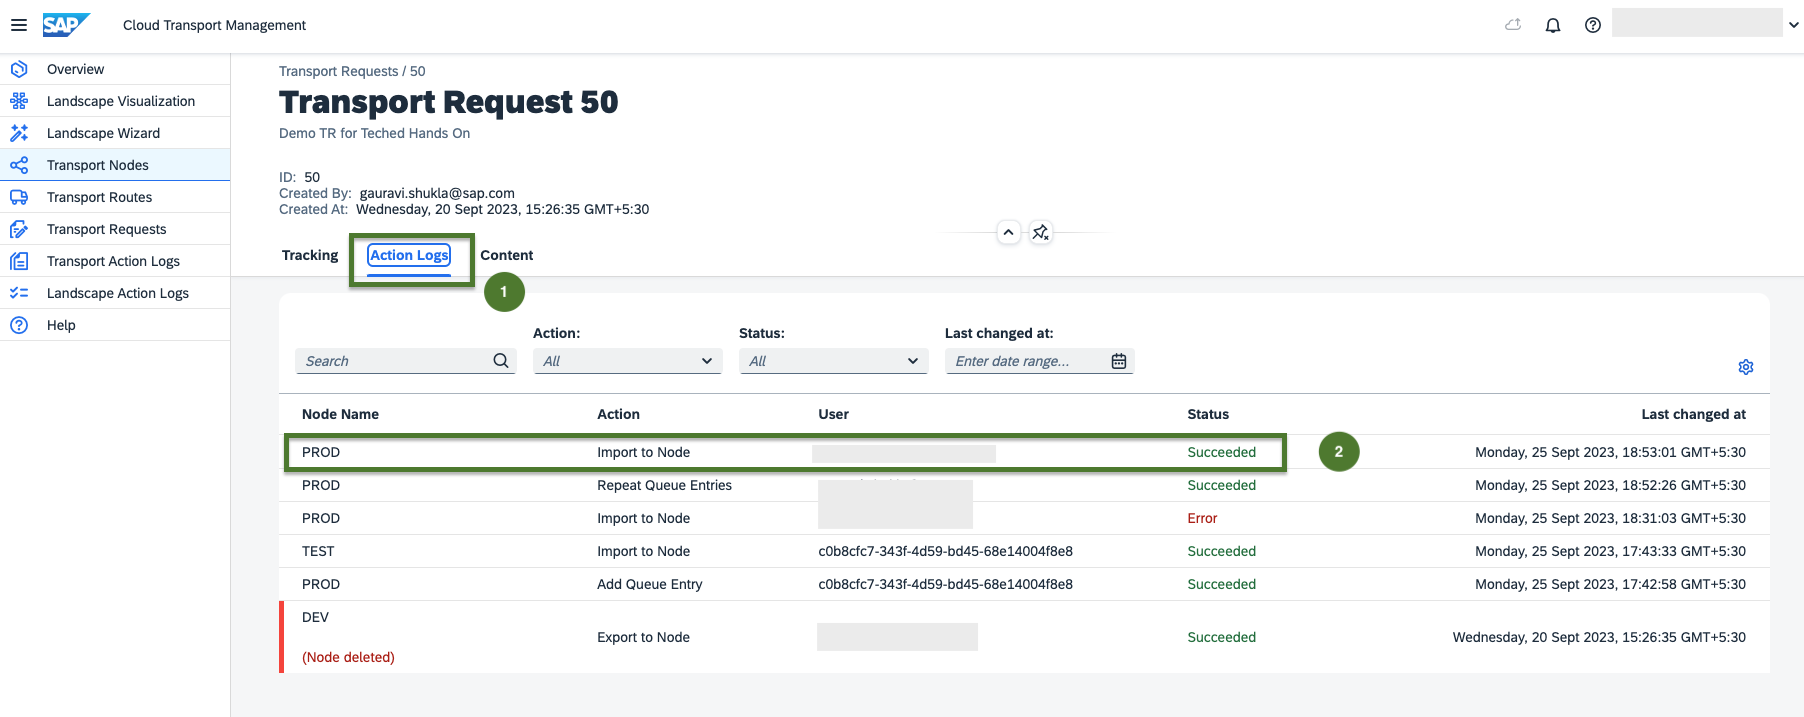
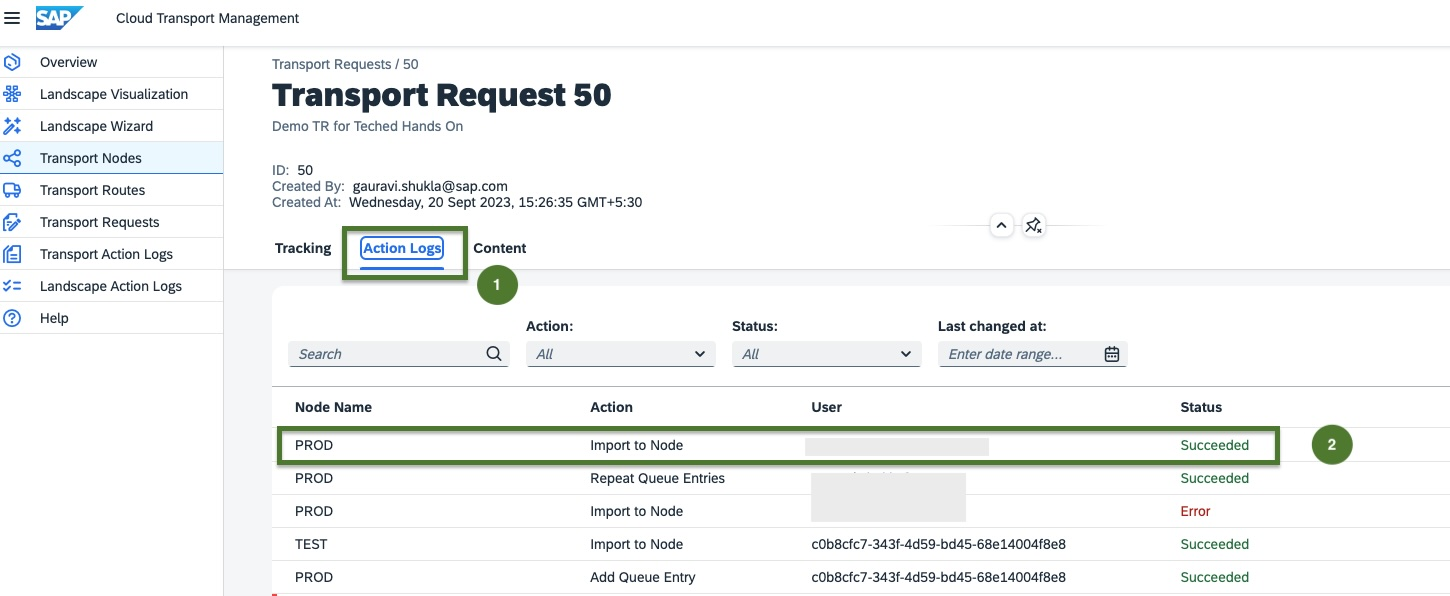
update screenshots for ALM deployment, Prod TR

diff --git a/exercises/ex4/README.md b/exercises/ex4/README.md
@@ -3,13 +3,13 @@
 Once the changes are successfully tested in the TEST tenant, start the deployment process for the PROD tenant.
 1. In [SAP Cloud ALM UI](https://ad261-calm-h7f2r9xc.eu10.alm.cloud.sap/launchpad#Shell-home),
 select the feature **Feature AD261-XXX** and choose **Approve for Production**.  
-    <img width="500" alt="image" src="images/ALMFeatureApproveDeployment.png">
+    <img width="500" alt="image" src="images/1.png">
 
 2. After approving the feature for deployment, click on **Deploy** to start production deployment.
 When you observe a final confirmation, click **OK**.  After confirming, the deployment gets scheduled and takes a few minutes to complete.  
-    <img width="500" alt="image" src="images/ALMDeployPROD.png">  
-    <img width="500" alt="image" src="images/ALMDeploymentScheduledInPROD.png">  
-    <img width="500" alt="image" src="images/ALM-deployed-OK.png">  
+    <img width="500" alt="image" src="images/2.png">  
+    <img width="500" alt="image" src="images/3.png">  
+    <img width="500" alt="image" src="images/5.png">  
     
 
 3. Check the history by clicking on the clock icon in the feature detail page. 

diff --git a/exercises/ex2/README.md b/exercises/ex2/README.md
@@ -16,7 +16,7 @@ View the metadata and the general information available for the different conten
 4. Go to the **Export** page to start the export. Select multiple contents from the different content types as shown in the following table. You can use filters for the content types. After selection, proceed to **Step 2**.
     | Content Type   | Content Name  |
 	| -------------  | ------------- |
-	| `Cloud Integration`   | `SAP Responsible Design and Production Integration with SAP ERP.ad261.0012`
+	| `Cloud Integration`   | `SAP Responsible Design and Production Integration with SAP ERP.ad261.XXX`
 	| `SAP API Management`  |  `DevPortal_Application_CF_2_0`  
 	| `Role Collection`  |  `Role Collection for Content Export` |   
 	

diff --git a/exercises/ex5/README.md b/exercises/ex5/README.md
@@ -5,7 +5,7 @@ Check the action logs in the Cloud Transport Management service UI.
 2. Go to **Transport Nodes** and select the `PROD` node.  
     <img width="500" alt="image" src="images/TMSNodes.png">
 
-3. Click on the transport request with your user suffix - `Teched  Demo Transport for AD261-XXX`.   
+3. Search for the transport request with your user suffix - `Teched  Demo Transport for AD261-XXX`.   
     <img width="500" alt="image" src="images/TMSProdTR.png">
 
 4. Check the status of the import for target node PROD by clicking on **Action Logs**.  
